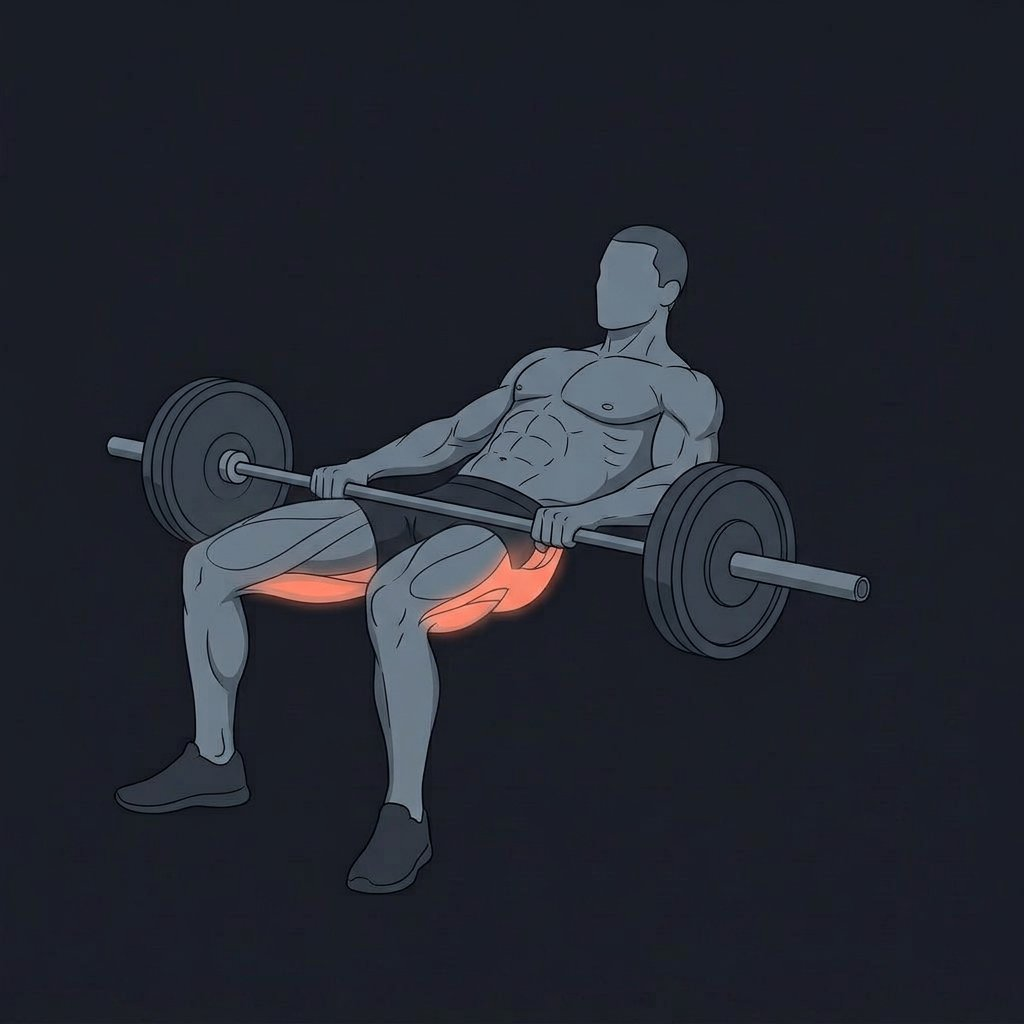
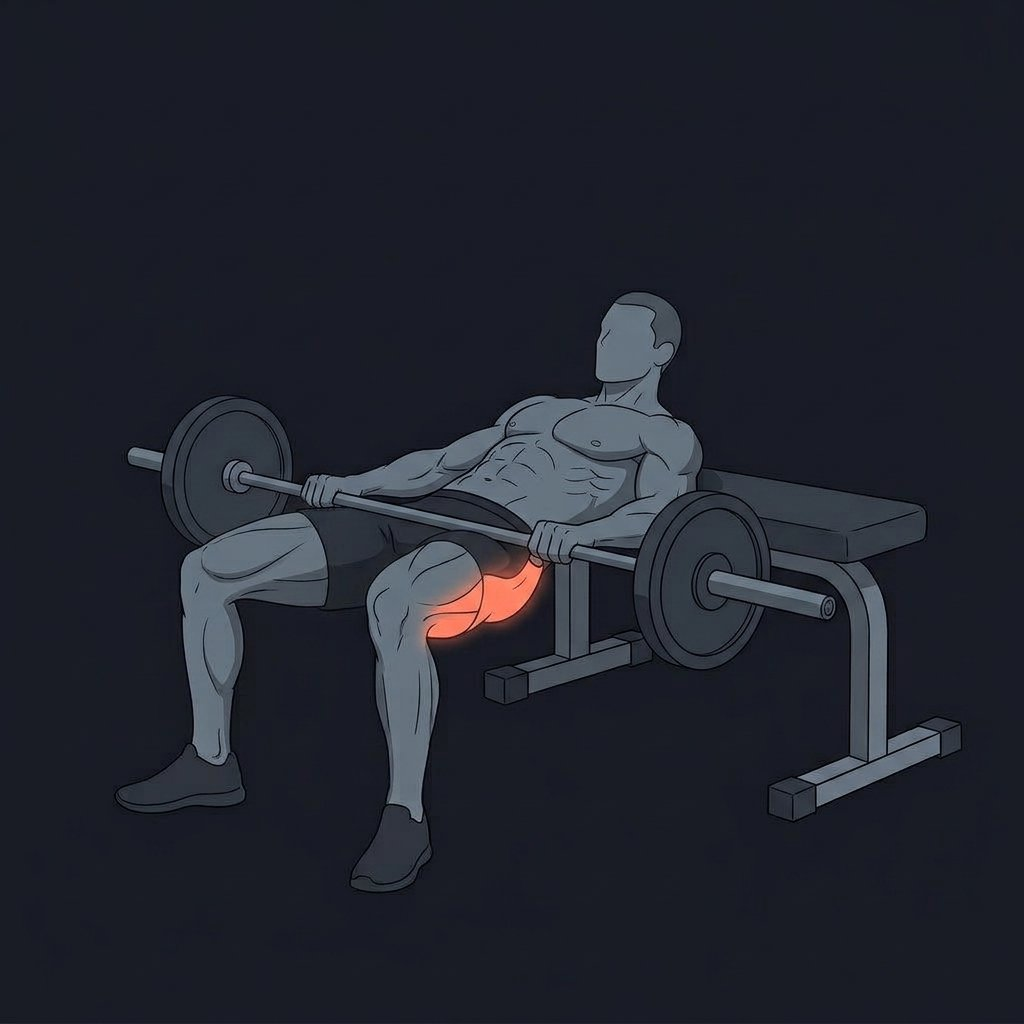
Add unified male AI illustrations for Day 6, Trail, and MyWhoosh exercises

Changed region(s): [[0.0938, 0.2188, 0.9375, 0.8125], [0.3438, 0.8438, 0.375, 0.875]]

diff --git a/src/lib/home-workouts.ts b/src/lib/home-workouts.ts
@@ -146,6 +146,13 @@ const AI_EXERCISE_IMAGE_IDS = new Set([
   'ex_plate_crunch',
   'ex_bb_rdl',
   'ex_bb_hip_thrust',
+  'ex_bb_good_morning',
+  'ex_side_plank',
+  'ex_band_monster_walk',
+  'ex_db_single_leg_rdl',
+  'ex_nordic_eccentric_calf',
+  'ex_side_plank_clam',
+  'ex_foam_thoracic_ext',
 ]);
 
 export function defaultExerciseImageUrl(id: string): string {
